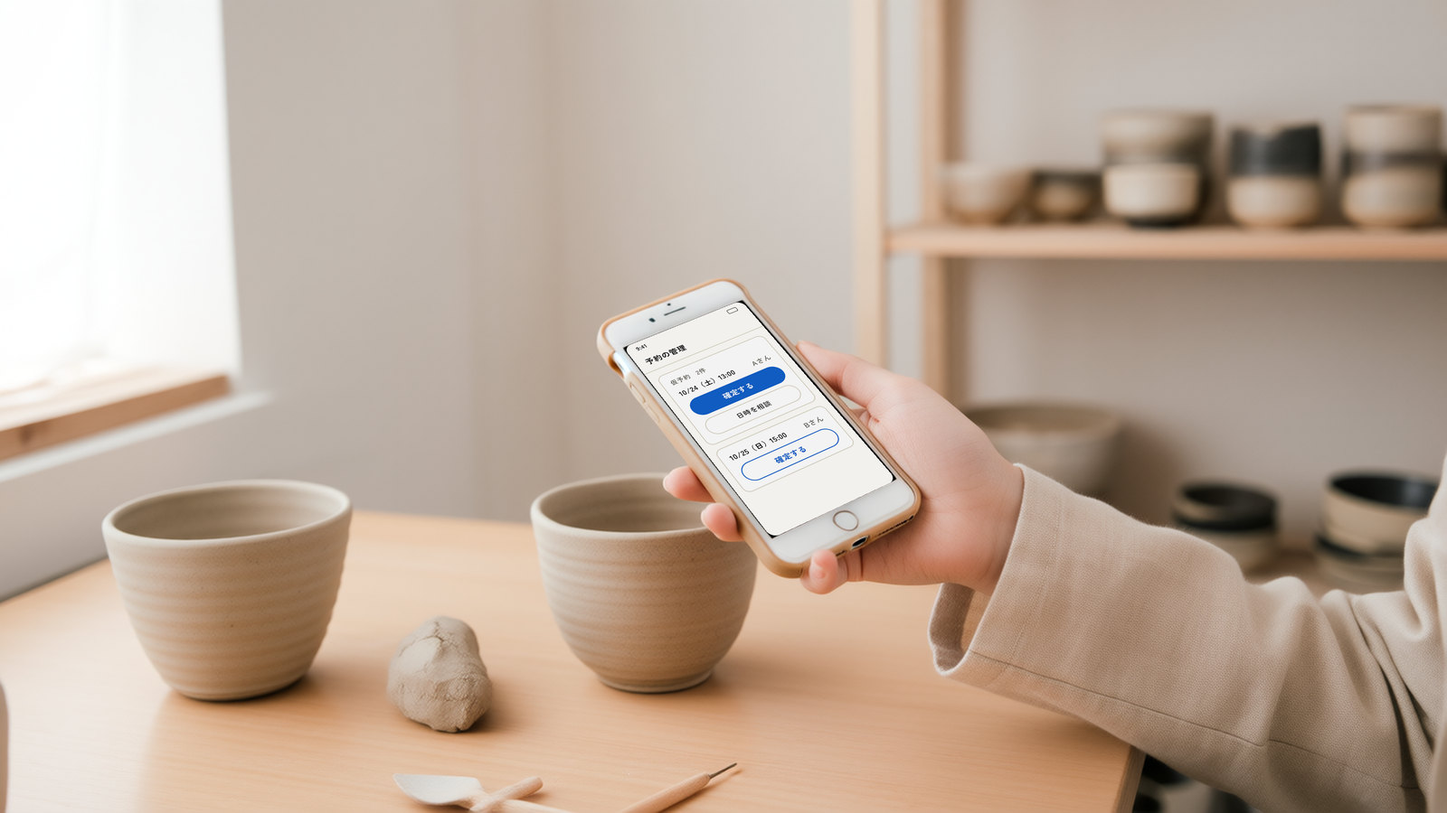
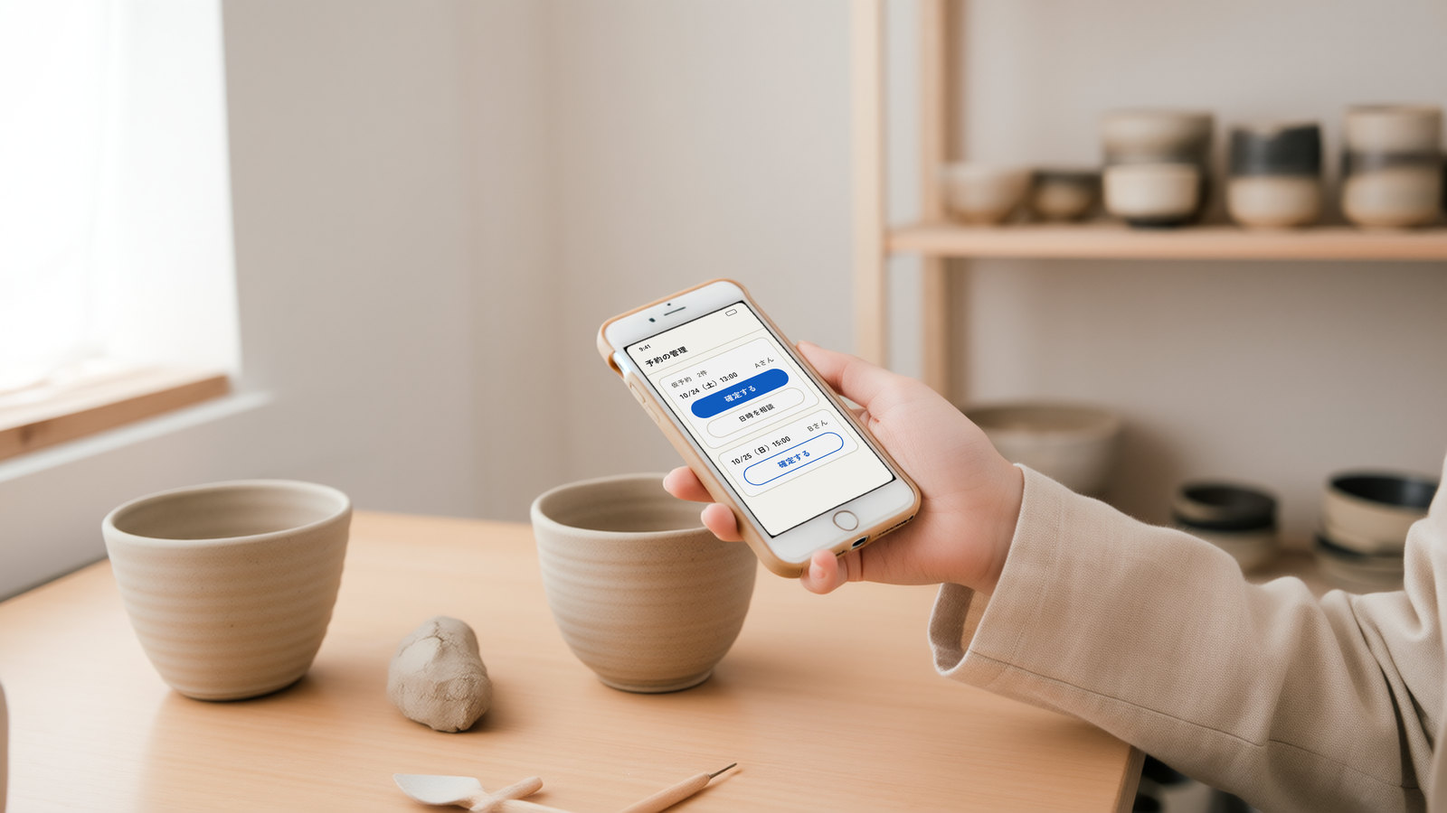
スマホの画面の角を、写真のスマホの丸みに合わせた: 角丸を決め打ちで描かず、元の写真の黒い画面そのものを型にしてはめた（縁はぼかしで内側へ・指の際に黒い線を残さない）。画像の版を v=6 に
Claude-Session: https://claude.ai/code/session_01JTS9wHoswqBZuuv7uGtGUu

Changed region(s): [[0.4375, 0.3733, 0.5938, 0.6222]]

diff --git a/line/index.html b/line/index.html
@@ -13,7 +13,7 @@
 <link rel="preload" href="../assets/fonts/zenkaku-500.woff2" as="font" type="font/woff2" crossorigin>
 <script>if(!matchMedia("(prefers-reduced-motion: reduce)").matches&&!/[?&#]edit\b/.test(location.search+location.hash)){document.documentElement.classList.add("anim");setTimeout(function(){if(!document.documentElement.classList.contains("ready"))document.documentElement.classList.remove("anim")},3000)}</script>
 <link rel="stylesheet" href="../style.css?v=h2">
-<link rel="stylesheet" href="../line/line.css?v=5">
+<link rel="stylesheet" href="../line/line.css?v=6">
 <script src="../script.js?v=h1" defer></script>
 </head>
 <body class="page-line v3" data-line-url="https://line.me/R/ti/p/@914vzoom" data-line-id="@914vzoom" data-count="">
@@ -49,7 +49,7 @@
 <p class="hero-when">いまは相談と見積もりを受け付けています。作り始めは2027年1月からの予定です。</p>
 </div>
 <figure class="hero-figure hv">
-<video autoplay muted loop playsinline preload="metadata" poster="../assets/line/hero-poster.jpg?v=5" width="1280" height="720" aria-label="朝の教室の受付。カウンターのお茶から湯気が立つイメージ映像"><source src="../assets/line/hero.mp4?v=5" type="video/mp4"></video>
+<video autoplay muted loop playsinline preload="metadata" poster="../assets/line/hero-poster.jpg?v=6" width="1280" height="720" aria-label="朝の教室の受付。カウンターのお茶から湯気が立つイメージ映像"><source src="../assets/line/hero.mp4?v=6" type="video/mp4"></video>
 <button class="hv-btn" type="button" data-s="pause" aria-label="映像を止める"><svg class="ic" aria-hidden="true"><use class="u-pause" href="#i-pause"/><use class="u-play" href="#i-play"/></svg></button>
 </figure>
 </section>
@@ -57,21 +57,21 @@
 <p class="label"><span class="en">ISSUES</span><span class="t">こんなこと、ありませんか</span></p>
 <h2 id="issues-title">毎日の、<br>小さな手間。</h2>
 <ul class="pcards">
-<li><img class="" src="../assets/line/before-kiroku-1600.jpg?v=5" srcset="../assets/line/before-kiroku-800.jpg?v=5 800w, ../assets/line/before-kiroku-1600.jpg?v=5 1600w" sizes="(max-width: 760px) 100vw, 50vw" width="1600" height="900" alt="机の上の紙の回数券とスタンプ" loading="lazy" decoding="async"><p>「あと何回でしたっけ？」と聞かれるたびに、紙のカードや表を探している。</p></li>
-<li><img class="" src="../assets/line/before-yoyaku-1600.jpg?v=5" srcset="../assets/line/before-yoyaku-800.jpg?v=5 800w, ../assets/line/before-yoyaku-1600.jpg?v=5 1600w" sizes="(max-width: 760px) 100vw, 50vw" width="1600" height="900" alt="お店のカウンターの予約の台帳と電話" loading="lazy" decoding="async"><p>予約の電話や DM を手帳に書き写して、確認の連絡を返している。</p></li>
-<li><img class="" src="../assets/line/before-chiiki-1600.jpg?v=5" srcset="../assets/line/before-chiiki-800.jpg?v=5 800w, ../assets/line/before-chiiki-1600.jpg?v=5 1600w" sizes="(max-width: 760px) 100vw, 50vw" width="1600" height="900" alt="公民館の掲示板に貼られたたくさんの紙" loading="lazy" decoding="async"><p>団体の連絡が、担当の人の個人の LINE と掲示板の紙に頼っている。</p></li>
+<li><img class="" src="../assets/line/before-kiroku-1600.jpg?v=6" srcset="../assets/line/before-kiroku-800.jpg?v=6 800w, ../assets/line/before-kiroku-1600.jpg?v=6 1600w" sizes="(max-width: 760px) 100vw, 50vw" width="1600" height="900" alt="机の上の紙の回数券とスタンプ" loading="lazy" decoding="async"><p>「あと何回でしたっけ？」と聞かれるたびに、紙のカードや表を探している。</p></li>
+<li><img class="" src="../assets/line/before-yoyaku-1600.jpg?v=6" srcset="../assets/line/before-yoyaku-800.jpg?v=6 800w, ../assets/line/before-yoyaku-1600.jpg?v=6 1600w" sizes="(max-width: 760px) 100vw, 50vw" width="1600" height="900" alt="お店のカウンターの予約の台帳と電話" loading="lazy" decoding="async"><p>予約の電話や DM を手帳に書き写して、確認の連絡を返している。</p></li>
+<li><img class="" src="../assets/line/before-chiiki-1600.jpg?v=6" srcset="../assets/line/before-chiiki-800.jpg?v=6 800w, ../assets/line/before-chiiki-1600.jpg?v=6 1600w" sizes="(max-width: 760px) 100vw, 50vw" width="1600" height="900" alt="公民館の掲示板に貼られたたくさんの紙" loading="lazy" decoding="async"><p>団体の連絡が、担当の人の個人の LINE と掲示板の紙に頼っている。</p></li>
 </ul>
 </section>
 <section class="sec " id="lps" aria-labelledby="lps-title">
 <p class="label"><span class="en">WHAT</span><span class="t">できること</span></p>
 <h2 id="lps-title">困りごとに合わせて、<br>3つの仕組み。</h2>
-<ul class="scards"><li><a class="scard" href="kiroku/"><img class="" src="../assets/line/kiroku-1600.jpg?v=5" srcset="../assets/line/kiroku-800.jpg?v=5 800w, ../assets/line/kiroku-1600.jpg?v=5 1600w" sizes="(max-width: 760px) 100vw, 50vw" width="1600" height="900" alt="ピラティス教室の受付でスマホを持つ人の後ろ姿" loading="lazy" decoding="async"><div class="scard-b"><h3>会員さんが、自分で<br>残り回数を見られる</h3><p>回数券の残り・来た日・教室からのメモを、会員さんが LINE からいつでも見られます。</p><p class="scard-who">教室・スクール・サロン・サークル</p><p class="scard-p"><span class="n">330,000</span>円〜<small>はじめに作る・税込</small></p><p class="scard-go">くわしく見る</p></div></a></li><li><a class="scard" href="yoyaku/"><img class="" src="../assets/line/yoyaku-1600.jpg?v=5" srcset="../assets/line/yoyaku-800.jpg?v=5 800w, ../assets/line/yoyaku-1600.jpg?v=5 1600w" sizes="(max-width: 760px) 100vw, 50vw" width="1600" height="900" alt="陶芸の工房でスマホを持つ店主の手元" loading="lazy" decoding="async"><div class="scard-b"><h3>予約を LINE で受けて、<br>確かめてから確定</h3><p>お客さんは空いている日を選んで仮予約。お店は内容を確かめてから「確定」。前の日の知らせも LINE で。</p><p class="scard-who">体験・工房・サロン・教室</p><p class="scard-p"><span class="n">165,000</span>円〜<small>はじめに作る・税込</small></p><p class="scard-go">くわしく見る</p></div></a></li><li><a class="scard" href="chiiki/"><img class="" src="../assets/line/chiiki-1600.jpg?v=5" srcset="../assets/line/chiiki-800.jpg?v=5 800w, ../assets/line/chiiki-1600.jpg?v=5 1600w" sizes="(max-width: 760px) 100vw, 50vw" width="1600" height="900" alt="子ども食堂の準備ができた長机。おにぎりとお味噌汁が並ぶ" loading="lazy" decoding="async"><div class="scard-b"><h3>団体のお知らせを、<br>人が代わっても続く形に</h3><p>開催日のお知らせや、よくある質問への返事を、団体の LINE で。引き継ぎの手順書もつけます。</p><p class="scard-who">子ども食堂・NPO・地区の会</p><p class="scard-p"><span class="n">100,000</span>円〜<small>はじめに作る・税込</small></p><p class="scard-go">くわしく見る</p></div></a></li></ul><p class="note">金額は、はじめに作る費用（税込）です。月々の利用料が別にかかることがあり、見積書に分けて書きます。どれにも当てはまらなくても、まず30分話してみてください。いまの困りごとに合わせて、組み合わせや別の形も考えます。</p>
+<ul class="scards"><li><a class="scard" href="kiroku/"><img class="" src="../assets/line/kiroku-1600.jpg?v=6" srcset="../assets/line/kiroku-800.jpg?v=6 800w, ../assets/line/kiroku-1600.jpg?v=6 1600w" sizes="(max-width: 760px) 100vw, 50vw" width="1600" height="900" alt="ピラティス教室の受付でスマホを持つ人の後ろ姿" loading="lazy" decoding="async"><div class="scard-b"><h3>会員さんが、自分で<br>残り回数を見られる</h3><p>回数券の残り・来た日・教室からのメモを、会員さんが LINE からいつでも見られます。</p><p class="scard-who">教室・スクール・サロン・サークル</p><p class="scard-p"><span class="n">330,000</span>円〜<small>はじめに作る・税込</small></p><p class="scard-go">くわしく見る</p></div></a></li><li><a class="scard" href="yoyaku/"><img class="" src="../assets/line/yoyaku-1600.jpg?v=6" srcset="../assets/line/yoyaku-800.jpg?v=6 800w, ../assets/line/yoyaku-1600.jpg?v=6 1600w" sizes="(max-width: 760px) 100vw, 50vw" width="1600" height="900" alt="陶芸の工房でスマホを持つ店主の手元" loading="lazy" decoding="async"><div class="scard-b"><h3>予約を LINE で受けて、<br>確かめてから確定</h3><p>お客さんは空いている日を選んで仮予約。お店は内容を確かめてから「確定」。前の日の知らせも LINE で。</p><p class="scard-who">体験・工房・サロン・教室</p><p class="scard-p"><span class="n">165,000</span>円〜<small>はじめに作る・税込</small></p><p class="scard-go">くわしく見る</p></div></a></li><li><a class="scard" href="chiiki/"><img class="" src="../assets/line/chiiki-1600.jpg?v=6" srcset="../assets/line/chiiki-800.jpg?v=6 800w, ../assets/line/chiiki-1600.jpg?v=6 1600w" sizes="(max-width: 760px) 100vw, 50vw" width="1600" height="900" alt="子ども食堂の準備ができた長机。おにぎりとお味噌汁が並ぶ" loading="lazy" decoding="async"><div class="scard-b"><h3>団体のお知らせを、<br>人が代わっても続く形に</h3><p>開催日のお知らせや、よくある質問への返事を、団体の LINE で。引き継ぎの手順書もつけます。</p><p class="scard-who">子ども食堂・NPO・地区の会</p><p class="scard-p"><span class="n">100,000</span>円〜<small>はじめに作る・税込</small></p><p class="scard-go">くわしく見る</p></div></a></li></ul><p class="note">金額は、はじめに作る費用（税込）です。月々の利用料が別にかかることがあり、見積書に分けて書きます。どれにも当てはまらなくても、まず30分話してみてください。いまの困りごとに合わせて、組み合わせや別の形も考えます。</p>
 </section>
 <section class="sec " id="member" aria-labelledby="member-title">
 <p class="label"><span class="en">FOR CUSTOMERS</span><span class="t">お客さんから見ると</span></p>
 <h2 id="member-title">新しいアプリは、いらない。<br>いつもの LINE から。</h2>
 <div class="split">
-<figure class="split-fig"><img class="" src="../assets/line/member-1600.jpg?v=5" srcset="../assets/line/member-800.jpg?v=5 800w, ../assets/line/member-1600.jpg?v=5 1600w" sizes="(max-width: 760px) 100vw, 50vw" width="1600" height="900" alt="駅のベンチで、膝の上のスマホを両手で持って見ている人の手元。画面には残り回数の見本" loading="lazy" decoding="async"></figure>
+<figure class="split-fig"><img class="" src="../assets/line/member-1600.jpg?v=6" srcset="../assets/line/member-800.jpg?v=6 800w, ../assets/line/member-1600.jpg?v=6 1600w" sizes="(max-width: 760px) 100vw, 50vw" width="1600" height="900" alt="駅のベンチで、膝の上のスマホを両手で持って見ている人の手元。画面には残り回数の見本" loading="lazy" decoding="async"></figure>
 <ol class="steps3">
 <li><p class="flow-no">01</p><h3>友だちに追加する</h3><p>お店・団体の LINE公式アカウントを友だちに追加します。LINE のほかに、新しいアプリはいりません。</p></li>
 <li><p class="flow-no">02</p><h3>はじめに一度、確認する</h3><p>はじめてページを開くときに「許可する」を押します。会員さんの記録なら、お店で QR コードを読むなど、本人の確認も一度だけ。</p></li>

diff --git a/line/kiroku/index.html b/line/kiroku/index.html
@@ -13,7 +13,7 @@
 <link rel="preload" href="../../assets/fonts/zenkaku-500.woff2" as="font" type="font/woff2" crossorigin>
 <script>if(!matchMedia("(prefers-reduced-motion: reduce)").matches&&!/[?&#]edit\b/.test(location.search+location.hash)){document.documentElement.classList.add("anim");setTimeout(function(){if(!document.documentElement.classList.contains("ready"))document.documentElement.classList.remove("anim")},3000)}</script>
 <link rel="stylesheet" href="../../style.css?v=h2">
-<link rel="stylesheet" href="../../line/line.css?v=5">
+<link rel="stylesheet" href="../../line/line.css?v=6">
 <script src="../../script.js?v=h1" defer></script>
 </head>
 <body class="page-line v3" data-line-url="https://line.me/R/ti/p/@914vzoom" data-line-id="@914vzoom" data-count="">
@@ -49,13 +49,13 @@
 <p class="hero-for">教室・スクール・サロン・サークルなど、会員制のかたへ。</p>
 <p class="hero-when">いまは相談と見積もりを受け付けています。作り始めは2027年1月からの予定です。月々の利用料が別にかかることがあり、見積書に書きます。</p>
 </div>
-<figure class="hero-figure hp"><img class="" src="../../assets/line/kiroku-1600.jpg?v=5" srcset="../../assets/line/kiroku-800.jpg?v=5 800w, ../../assets/line/kiroku-1600.jpg?v=5 1600w" sizes="(max-width: 760px) 100vw, 50vw" width="1600" height="900" alt="ピラティス教室の受付でスマホを持つ人の後ろ姿"><div class="hp-mock l" aria-hidden="true"><div class="mk mk-page "><div class="mk-notch" aria-hidden="true"></div><div class="mk-top mk-top-page"><span class="mk-name">わたしの記録</span></div><div class="mk-body"><div class="mk-card"><p class="mk-k">回数券の残り</p><p class="mk-big">4<small>回</small><span>／10回</span></p><p class="mk-bar"><i style="width:40%"></i></p></div><div class="mk-card"><p class="mk-k">来た日</p><p class="mk-row">10月15日（木）<span>60分</span></p><p class="mk-row">10月8日（木）<span>60分</span></p><p class="mk-row">10月1日（木）<span>60分</span></p></div><div class="mk-card"><p class="mk-k">教室からのメモ</p><p class="mk-t">肩まわりを中心に。次は10月22日（木）です。</p></div><div class="mk-card"><p class="mk-k">自分のメモ</p><p class="mk-row mk-memo">家でストレッチ5分<span class="mk-del">消す</span></p></div></div><p class="mk-tag">見本</p></div></div></figure>
+<figure class="hero-figure hp"><img class="" src="../../assets/line/kiroku-1600.jpg?v=6" srcset="../../assets/line/kiroku-800.jpg?v=6 800w, ../../assets/line/kiroku-1600.jpg?v=6 1600w" sizes="(max-width: 760px) 100vw, 50vw" width="1600" height="900" alt="ピラティス教室の受付でスマホを持つ人の後ろ姿"><div class="hp-mock l" aria-hidden="true"><div class="mk mk-page "><div class="mk-notch" aria-hidden="true"></div><div class="mk-top mk-top-page"><span class="mk-name">わたしの記録</span></div><div class="mk-body"><div class="mk-card"><p class="mk-k">回数券の残り</p><p class="mk-big">4<small>回</small><span>／10回</span></p><p class="mk-bar"><i style="width:40%"></i></p></div><div class="mk-card"><p class="mk-k">来た日</p><p class="mk-row">10月15日（木）<span>60分</span></p><p class="mk-row">10月8日（木）<span>60分</span></p><p class="mk-row">10月1日（木）<span>60分</span></p></div><div class="mk-card"><p class="mk-k">教室からのメモ</p><p class="mk-t">肩まわりを中心に。次は10月22日（木）です。</p></div><div class="mk-card"><p class="mk-k">自分のメモ</p><p class="mk-row mk-memo">家でストレッチ5分<span class="mk-del">消す</span></p></div></div><p class="mk-tag">見本</p></div></div></figure>
 </section>
 <section class="sec " id="issues" aria-labelledby="issues-title">
 <p class="label"><span class="en">ISSUES</span><span class="t">こんなこと、ありませんか</span></p>
 <h2 id="issues-title">聞く側も、<br>答える側も。</h2>
 <div class="split split-r">
-<figure class="split-fig"><img class="" src="../../assets/line/before-kiroku-1600.jpg?v=5" srcset="../../assets/line/before-kiroku-800.jpg?v=5 800w, ../../assets/line/before-kiroku-1600.jpg?v=5 1600w" sizes="(max-width: 760px) 100vw, 50vw" width="1600" height="900" alt="机の上の紙の回数券とスタンプ" loading="lazy" decoding="async"></figure>
+<figure class="split-fig"><img class="" src="../../assets/line/before-kiroku-1600.jpg?v=6" srcset="../../assets/line/before-kiroku-800.jpg?v=6 800w, ../../assets/line/before-kiroku-1600.jpg?v=6 1600w" sizes="(max-width: 760px) 100vw, 50vw" width="1600" height="900" alt="机の上の紙の回数券とスタンプ" loading="lazy" decoding="async"></figure>
 <div class="pains2"><div><h3>会員さんは</h3><ul><li>残り回数を、営業時間を気にせず確かめたい</li><li>前に言われたことを、あとから見返したい</li><li>回数券の紙を、なくしてしまう</li></ul></div><div><h3>お店・教室は</h3><ul><li>「あと何回？」と聞かれるたびに、紙や表を探している</li><li>記録が、紙とスマホとパソコンに散らばっている</li><li>レッスンの合間に、返事を打つ時間がない</li></ul></div></div>
 </div>
 </section>

diff --git a/line/chiiki/index.html b/line/chiiki/index.html
@@ -13,7 +13,7 @@
 <link rel="preload" href="../../assets/fonts/zenkaku-500.woff2" as="font" type="font/woff2" crossorigin>
 <script>if(!matchMedia("(prefers-reduced-motion: reduce)").matches&&!/[?&#]edit\b/.test(location.search+location.hash)){document.documentElement.classList.add("anim");setTimeout(function(){if(!document.documentElement.classList.contains("ready"))document.documentElement.classList.remove("anim")},3000)}</script>
 <link rel="stylesheet" href="../../style.css?v=h2">
-<link rel="stylesheet" href="../../line/line.css?v=5">
+<link rel="stylesheet" href="../../line/line.css?v=6">
 <script src="../../script.js?v=h1" defer></script>
 </head>
 <body class="page-line v3" data-line-url="https://line.me/R/ti/p/@914vzoom" data-line-id="@914vzoom" data-count="">
@@ -49,13 +49,13 @@
 <p class="hero-for">子ども食堂・NPO・地区の見守り・若者の居場所のかたへ。</p>
 <p class="hero-when">いまは相談と見積もりを受け付けています。作り始めは2027年1月からの予定です。月々の利用料が別にかかることがあり、見積書に書きます。</p>
 </div>
-<figure class="hero-figure hp"><img class="" src="../../assets/line/chiiki-1600.jpg?v=5" srcset="../../assets/line/chiiki-800.jpg?v=5 800w, ../../assets/line/chiiki-1600.jpg?v=5 1600w" sizes="(max-width: 760px) 100vw, 50vw" width="1600" height="900" alt="子ども食堂の準備ができた長机。おにぎりとお味噌汁が並ぶ"><div class="hp-mock l" aria-hidden="true"><div class="mk mk-msgs"><p class="mk-mh">LINE で届く文</p><div class="mk-body"><p class="mk-when">トークの下に出すメニューの画像（例）</p><div class="mk-menu"><span>お知らせ</span><span>次の開催日</span><span>よくある質問</span></div><div class="mk-msg"><p class="mk-when">11月1日（日）・定期のお知らせ</p><p class="mk-mt">11月の食堂は、14日（土）と28日（土）の17時からです。予約はいりません。紙のお知らせは、公民館の掲示板にも貼っています。</p></div></div><p class="mk-tag">文の例</p></div></div></figure>
+<figure class="hero-figure hp"><img class="" src="../../assets/line/chiiki-1600.jpg?v=6" srcset="../../assets/line/chiiki-800.jpg?v=6 800w, ../../assets/line/chiiki-1600.jpg?v=6 1600w" sizes="(max-width: 760px) 100vw, 50vw" width="1600" height="900" alt="子ども食堂の準備ができた長机。おにぎりとお味噌汁が並ぶ"><div class="hp-mock l" aria-hidden="true"><div class="mk mk-msgs"><p class="mk-mh">LINE で届く文</p><div class="mk-body"><p class="mk-when">トークの下に出すメニューの画像（例）</p><div class="mk-menu"><span>お知らせ</span><span>次の開催日</span><span>よくある質問</span></div><div class="mk-msg"><p class="mk-when">11月1日（日）・定期のお知らせ</p><p class="mk-mt">11月の食堂は、14日（土）と28日（土）の17時からです。予約はいりません。紙のお知らせは、公民館の掲示板にも貼っています。</p></div></div><p class="mk-tag">文の例</p></div></div></figure>
 </section>
 <section class="sec " id="issues" aria-labelledby="issues-title">
 <p class="label"><span class="en">ISSUES</span><span class="t">こんなこと、ありませんか</span></p>
 <h2 id="issues-title">連絡が、<br>あの人のスマホに。</h2>
 <div class="split split-r">
-<figure class="split-fig"><img class="" src="../../assets/line/before-chiiki-1600.jpg?v=5" srcset="../../assets/line/before-chiiki-800.jpg?v=5 800w, ../../assets/line/before-chiiki-1600.jpg?v=5 1600w" sizes="(max-width: 760px) 100vw, 50vw" width="1600" height="900" alt="公民館の掲示板に貼られたたくさんの紙" loading="lazy" decoding="async"></figure>
+<figure class="split-fig"><img class="" src="../../assets/line/before-chiiki-1600.jpg?v=6" srcset="../../assets/line/before-chiiki-800.jpg?v=6 800w, ../../assets/line/before-chiiki-1600.jpg?v=6 1600w" sizes="(max-width: 760px) 100vw, 50vw" width="1600" height="900" alt="公民館の掲示板に貼られたたくさんの紙" loading="lazy" decoding="async"></figure>
 <div class="pains2"><div><h3>受け取る人は</h3><ul><li>前のお知らせを、あとから見返したい</li><li>次の開催日だけ、さっと知りたい</li><li>LINE を使っていない家もある</li></ul></div><div><h3>団体は</h3><ul><li>個人のスマホの LINE で、団体の連絡をしている</li><li>担当が代わるたびに、やり方の説明をやり直している</li><li>無料の枠で足りるのか、わからない</li></ul></div></div>
 </div>
 </section>

diff --git a/line/yoyaku/index.html b/line/yoyaku/index.html
@@ -13,7 +13,7 @@
 <link rel="preload" href="../../assets/fonts/zenkaku-500.woff2" as="font" type="font/woff2" crossorigin>
 <script>if(!matchMedia("(prefers-reduced-motion: reduce)").matches&&!/[?&#]edit\b/.test(location.search+location.hash)){document.documentElement.classList.add("anim");setTimeout(function(){if(!document.documentElement.classList.contains("ready"))document.documentElement.classList.remove("anim")},3000)}</script>
 <link rel="stylesheet" href="../../style.css?v=h2">
-<link rel="stylesheet" href="../../line/line.css?v=5">
+<link rel="stylesheet" href="../../line/line.css?v=6">
 <script src="../../script.js?v=h1" defer></script>
 </head>
 <body class="page-line v3" data-line-url="https://line.me/R/ti/p/@914vzoom" data-line-id="@914vzoom" data-count="">
@@ -49,13 +49,13 @@
 <p class="hero-for">体験の内容や人数を確かめてから予約を受けたい、体験・工房・サロン・教室のかたへ。</p>
 <p class="hero-when">いまは相談と見積もりを受け付けています。作り始めは2027年1月からの予定です。月々の利用料が別にかかることがあり、見積書に書きます。</p>
 </div>
-<figure class="hero-figure hp"><img class="" src="../../assets/line/yoyaku-1600.jpg?v=5" srcset="../../assets/line/yoyaku-800.jpg?v=5 800w, ../../assets/line/yoyaku-1600.jpg?v=5 1600w" sizes="(max-width: 760px) 100vw, 50vw" width="1600" height="900" alt="陶芸の工房でスマホを持つ店主の手元"></figure>
+<figure class="hero-figure hp"><img class="" src="../../assets/line/yoyaku-1600.jpg?v=6" srcset="../../assets/line/yoyaku-800.jpg?v=6 800w, ../../assets/line/yoyaku-1600.jpg?v=6 1600w" sizes="(max-width: 760px) 100vw, 50vw" width="1600" height="900" alt="陶芸の工房でスマホを持つ店主の手元"></figure>
 </section>
 <section class="sec " id="issues" aria-labelledby="issues-title">
 <p class="label"><span class="en">ISSUES</span><span class="t">こんなこと、ありませんか</span></p>
 <h2 id="issues-title">電話に出られない<br>時間にも、予約は来る。</h2>
 <div class="split split-r">
-<figure class="split-fig"><img class="" src="../../assets/line/before-yoyaku-1600.jpg?v=5" srcset="../../assets/line/before-yoyaku-800.jpg?v=5 800w, ../../assets/line/before-yoyaku-1600.jpg?v=5 1600w" sizes="(max-width: 760px) 100vw, 50vw" width="1600" height="900" alt="お店のカウンターの予約の台帳と電話" loading="lazy" decoding="async"></figure>
+<figure class="split-fig"><img class="" src="../../assets/line/before-yoyaku-1600.jpg?v=6" srcset="../../assets/line/before-yoyaku-800.jpg?v=6 800w, ../../assets/line/before-yoyaku-1600.jpg?v=6 1600w" sizes="(max-width: 760px) 100vw, 50vw" width="1600" height="900" alt="お店のカウンターの予約の台帳と電話" loading="lazy" decoding="async"></figure>
 <div class="pains2"><div><h3>お客さんは</h3><ul><li>予約が確定したのか、わかりにくい</li><li>夜や休みの日に、空いている日を見たい</li><li>前の日に、時間を確かめたい</li></ul></div><div><h3>お店は</h3><ul><li>施術中・体験中は、電話に出られない</li><li>電話と DM を見比べて、確認の連絡をしている</li><li>はじめての人には、先に内容を聞いてから受けたい</li></ul></div></div>
 </div><p class="note">予約を受けるだけなら、月額の予約サービスで足りることもあります。30分の相談で一緒に見て、足りないときだけ作ります。</p>
 </section>

diff --git a/index.html b/index.html
@@ -97,7 +97,7 @@
 <h2 id="product-title">お客さんとのやりとりを、<br>いつもの LINE で。</h2>
 <p class="sec-lead">LINE公式アカウントの仕組みづくり。会員さんの残り回数、予約の確定、団体のお知らせ。いま電話や紙でやっていることを、お客さんがふだん使っている LINE の中で済むようにします。お客さんがアプリを入れる必要はありません。</p>
 <div class="prod">
-<a class="prod-fig" href="line/"><img src="assets/line/member-800.jpg?v=5" srcset="assets/line/member-800.jpg?v=5 800w, assets/line/member-1600.jpg?v=5 1600w" sizes="(max-width: 760px) 100vw, 50vw" width="1600" height="900" alt="膝の上のスマホを両手で持って見ている人の手元。画面には残り回数の見本" loading="lazy" decoding="async"></a>
+<a class="prod-fig" href="line/"><img src="assets/line/member-800.jpg?v=6" srcset="assets/line/member-800.jpg?v=6 800w, assets/line/member-1600.jpg?v=6 1600w" sizes="(max-width: 760px) 100vw, 50vw" width="1600" height="900" alt="膝の上のスマホを両手で持って見ている人の手元。画面には残り回数の見本" loading="lazy" decoding="async"></a>
 <ul class="prod-list">
 <li><a href="line/kiroku/"><h3>会員記録</h3><p>回数券の残りや来た日を、会員さんが LINE から自分で見られる。教室・サロン・サークルに。</p></a></li>
 <li><a href="line/yoyaku/"><h3>予約</h3><p>LINE で仮予約を受けて、お店が確かめてから確定する。前の日の知らせも LINE で。</p></a></li>
